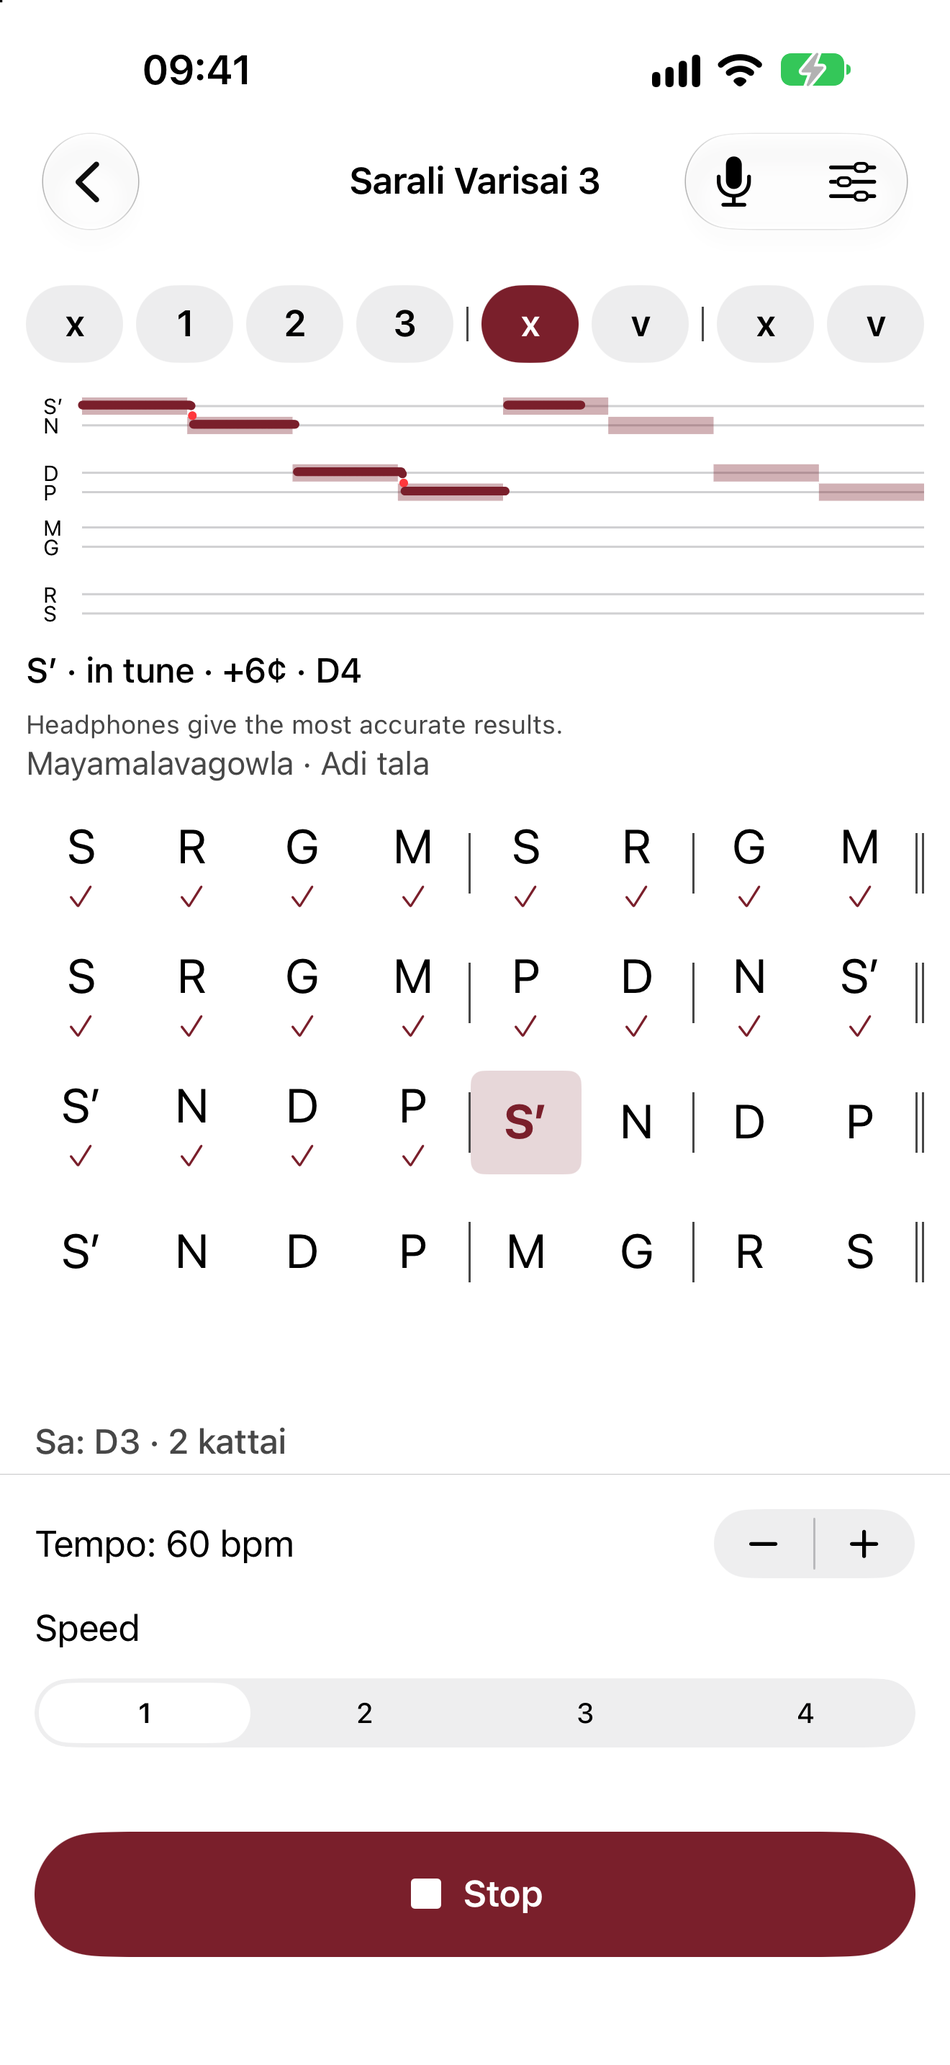
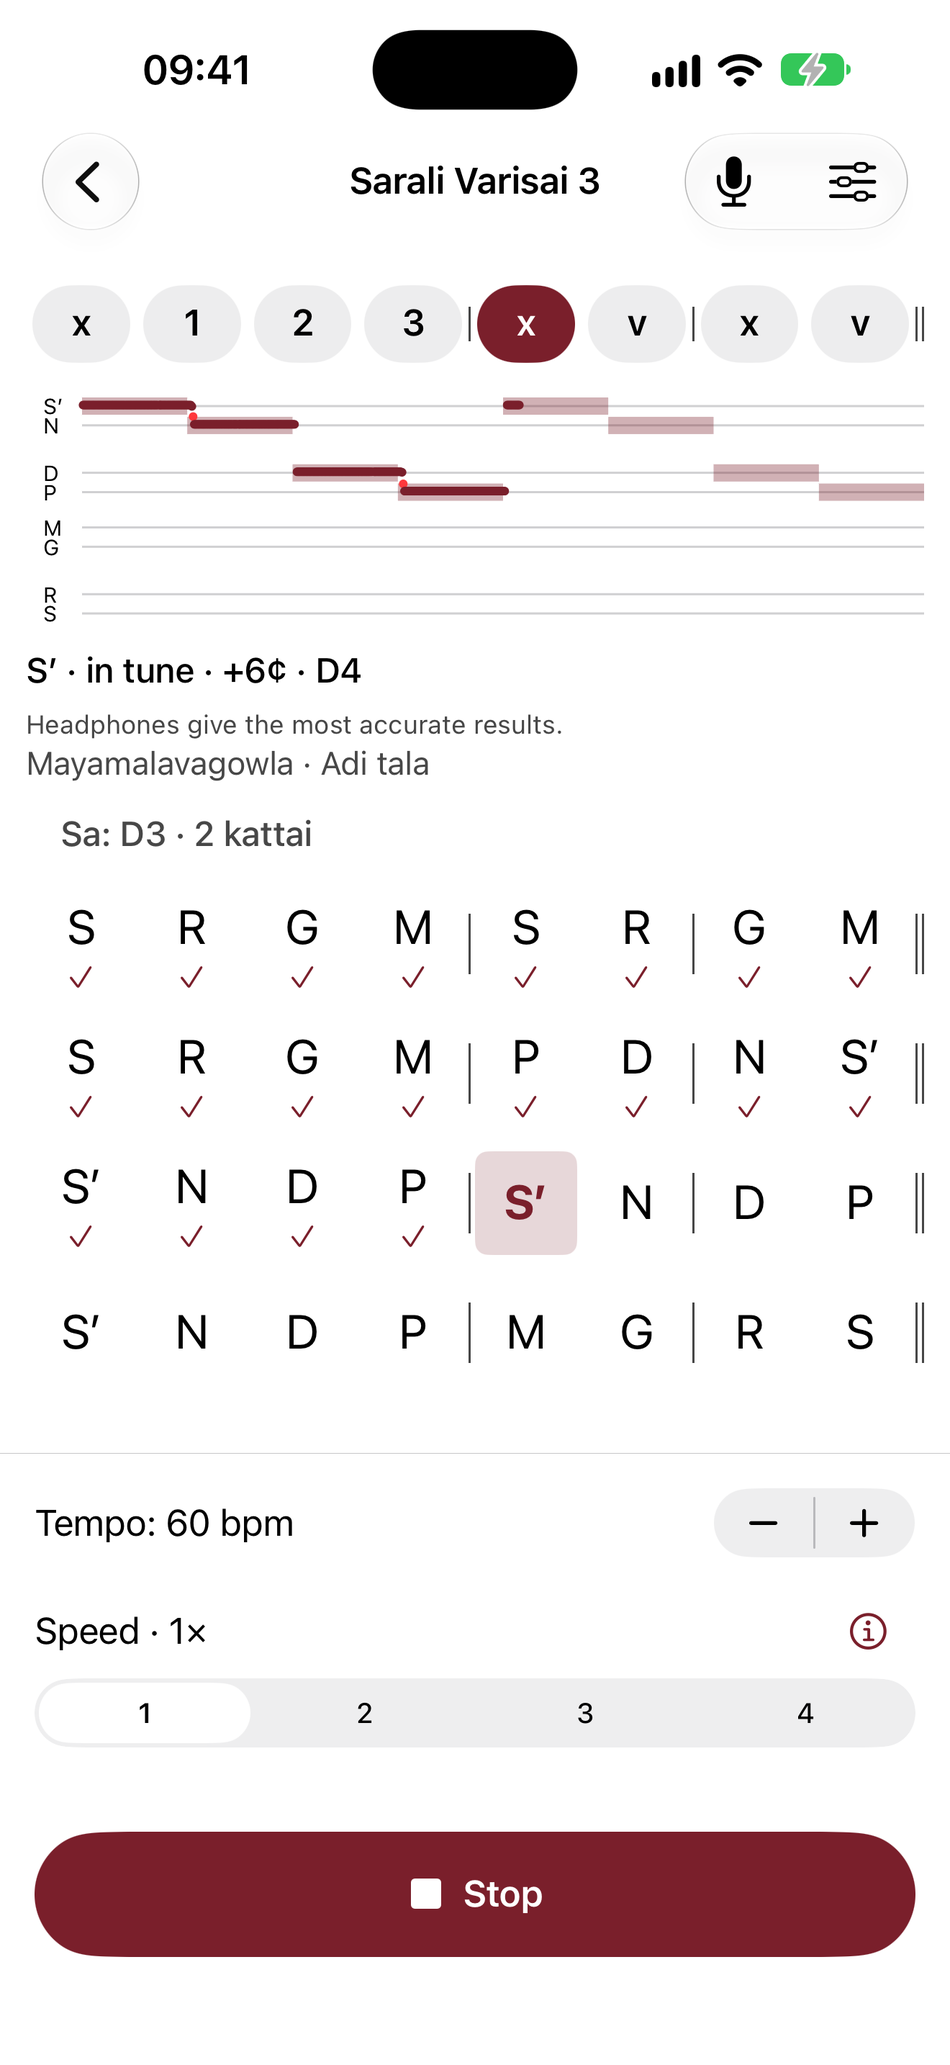
Navigation menu, docs and site (N4); iPhone hides the tab bar on full screens
The guide's Getting started page explains finding your way (Android menu,
iPhone tabs, iPad sidebar) and Home with the set pages; Shruti practice,
Find my Sa, Recordings, set runs and choosing Sa say where each is on every
device; accessibility describes the menu. New guide screenshots (Home, a set
page, Shruti practice, Find my Sa) and store screenshots. README and the
landing-page plan updated. On iPhone the player, a run, the recorder and a
recording hide the tab bar, as Android shows no menu there.

diff --git a/site/pages/guide/index.html b/site/pages/guide/index.html
@@ -6,27 +6,45 @@ description: Set your Sa, warm up with the tanpura, and play your first varisai 
 <p class="intro">Purandara plays the graded Carnatic lessons in tala at your Sa, and listens while you sing. This guide walks through everything it does; to find a word or a setting, use <em>Search the guide</em> at the top of the page list.</p>
 
 <figure>
-  <img src="{{root}}images/app-landing.jpg" width="600" height="1304" alt="The home screen: a Start here card, the Your Sa (Shruthi) card with Play tanpura, Practise Sa and Find my Sa, and the plain scale set.">
-  <figcaption>The home screen the first time you open Purandara.</figcaption>
+  <img src="{{root}}images/app-landing.jpg" width="600" height="1304" alt="Home on iPhone: a Start here card pointing to the plain scale, the Your Sa (Shruthi) card with Play tanpura, the Varisais list of sets, and the Practise, Sa and Recordings tabs at the bottom.">
+  <figcaption>Home the first time you open Purandara.</figcaption>
 </figure>
 
 <h2>Your first practice</h2>
 <ol>
-  <li><strong>Set your Sa.</strong> On the home screen, the <em>Your Sa (Shruthi)</em> card shows the current Sa, such as “C3 · 1 kattai”. Tap it to choose another. If you don’t know your Sa, use <a href="find-my-sa.html">Find my Sa</a>.</li>
-  <li><strong>Warm up.</strong> Tap <em>Play tanpura</em> and hum Sa until it feels settled, or open <a href="shruti-practice.html">Practise Sa</a> to see your pitch as you sing.</li>
+  <li><strong>Set your Sa.</strong> On Home, <em>Your Sa (Shruthi)</em> shows the current Sa, such as “C3 · 1 kattai”. Tap it to choose another. If you don’t know your Sa, use <a href="find-my-sa.html">Find my Sa</a>.</li>
+  <li><strong>Warm up.</strong> Tap <em>Play tanpura</em> and hum Sa until it feels settled, or open <a href="shruti-practice.html">Shruti practice</a> to see your pitch as you sing.</li>
   <li><strong>Play an exercise.</strong> Tap <em>Start here</em> to open the plain scale, then tap <em>Play</em>. Listen to one cycle before you sing.</li>
   <li><strong>Sing along.</strong> Tap the microphone button at the top of the player to have your notes marked. See <a href="sing-along.html">Sing along</a>.</li>
 </ol>
 
-<h2>The home screen</h2>
+<h2 id="finding-your-way">Finding your way</h2>
+<p>The app has a few main places: Home, a page for each set, Shruti practice, Find my Sa, Recordings and About. How you move between them depends on the device.</p>
+<dl>
+  <dt>Android</dt>
+  <dd>Tap the menu button (three lines) at the top left, or swipe in from the left edge. The menu lists Home, the sets under <em>Varisais</em> and <em>Alankaram &amp; songs</em> (tap a heading to fold it away), then <em>Sa &amp; voice</em> (Shruti practice, Find my Sa, Recordings) and About. On a tablet held sideways the menu stays open beside the page. <em>Back</em> from any of these returns to Home.</dd>
+  <dt>iPhone</dt>
+  <dd>Three tabs at the bottom. <em>Practise</em> is Home and the sets; <em>Sa</em> holds your Sa, the tanpura, Shruti practice and Find my Sa; <em>Recordings</em> is your recordings. About is the <em>i</em> button at the top of Home.</dd>
+  <dt>iPad</dt>
+  <dd>A sidebar on the left lists the same places as the Android menu; the chosen one fills the rest of the screen. In split screen, the iPad uses the iPhone’s tabs.</dd>
+</dl>
+<p>An exercise, a practice run, the recorder and a recording open on top of these, with a back arrow.</p>
+
+<h2 id="the-home-screen">Home and the set pages</h2>
 <dl>
   <dt>Start here, then Continue</dt>
   <dd>Before you have practised anything, this card points to the plain scale. Afterwards it shows the exercise you practised last, when, and your best sing-along result, with the next exercise in teaching order below it.</dd>
   <dt>Your Sa (Shruthi)</dt>
-  <dd>Your Sa, a tanpura to tune to, and the way into Shruti practice, Find my Sa and <a href="recordings.html">Recordings</a> (record yourself and see the swaras you sang).</dd>
+  <dd>Your Sa and a tanpura to tune to.</dd>
   <dt>The sets</dt>
-  <dd>Every exercise, grouped by set in teaching order. Each set says what it trains, and once you have practised some, how many. Each exercise shows a small line of its melodic shape, a tick once practised, and your best sing-along result.</dd>
+  <dd>Every set in teaching order, under <em>Varisais</em> and <em>Alankaram &amp; songs</em>, with how many exercises it has or, once you have started, how many you have practised. Tap a set to open its page.</dd>
+  <dt>A set’s page</dt>
+  <dd>What the set trains, <a href="varisai-player.html#set-run">Practise the whole set</a> for the varisai sets, then every exercise with a small line of its melodic shape, a tick once practised, and your best sing-along result.</dd>
 </dl>
+<figure>
+  <img src="{{root}}images/app-set.jpg" width="600" height="1304" loading="lazy" alt="The Sarali Varisai page on iPhone: what the set trains, a Practise Sarali Varisai row for all 16 varisais one after another, then Sarali Varisai 1 to 8 with the melodic shape of each.">
+  <figcaption>A set’s page: the run through the whole set, then each exercise.</figcaption>
+</figure>
 
 <div class="note"><p>An exercise counts as practised once you have heard one whole pass of it to the end. Opening it, or stopping during the count-in, doesn’t count.</p></div>
 

diff --git a/site/pages/guide/varisai-player.html b/site/pages/guide/varisai-player.html
@@ -3,7 +3,7 @@ title: Play a varisai
 description: Play any varisai on harmonium and tanpura in Adi tala, follow the notation and tala, and change tempo and speed.
 -->
 <h1>Play a varisai</h1>
-<p class="intro">Open any exercise from the home screen to play it on the harmonium, over the tanpura, in Adi tala.</p>
+<p class="intro">Open any exercise from its set’s page (or <em>Continue</em> on Home) to play it on the harmonium, over the tanpura, in its tala.</p>
 
 <figure>
   <img src="{{root}}images/app-play.jpg" width="600" height="1304" alt="Dhattu Varisai 1 playing: the tala strip with the current beat lit, the notation with the current swara highlighted, and tempo and speed controls.">
@@ -42,11 +42,11 @@ description: Play any varisai on harmonium and tanpura in Adi tala, follow the n
 <p>Fourth speed is an optional challenge, not a requirement for every exercise. For the plain scale at 30 beats a minute, it is four swaras a second, as fast as third speed at 60. For practice targets by exercise set, how tempo and speed combine, and a gradual way to build up, see <a href="{{root}}learn/speeds.html">The speeds</a> in Learn.</p>
 
 <h2 id="set-run">Practising a whole set</h2>
-<p>Sarali Varisai, Madhya Sthayi, Janta, Vakra Janta and Dhattu can be practised as one run: varisai after varisai, without opening each one. On the home screen, tap <em>Practise Sarali Varisai</em> (or the matching row) under the set.</p>
+<p>Sarali Varisai, Madhya Sthayi, Janta, Vakra Janta and Dhattu can be practised as one run: varisai after varisai, without opening each one. Open the set’s page (tap the set on Home, or choose it from the menu) and tap <em>Practise Sarali Varisai</em> (or the matching row) at the top.</p>
 <p>The plan lists every varisai in the set. Each has its own <em>Speed</em> (1–4) and <em>Sing</em> count (1–7). Speed 3 means the varisai is sung at first kala, then second, then third; <em>Sing</em> is how many times at each speed, so Speed 3 with Sing 2 is 1, 1, 2, 2, 3, 3. <em>Set every varisai to speed</em> and <em>Sing every varisai</em> change the whole list at once, and you can then change one varisai on its own.</p>
 <p>Start opens the first varisai in the normal player at first kala. The plan’s speed and repeat settings stay in charge: each speed starts with the player’s count-in and room check, its passes repeat with the tanpura and tala running on, and when they are done the app moves to the next speed or varisai. The player’s tempo, settings, microphone, note marks and pass summaries are all there; the speed picker is hidden because the plan sets it.</p>
 <p>While it plays, a banner above the notation says which varisai, speed and pass you are on. <em>Tempo</em> can be changed in the player; it restarts the current speed at the new tempo. <em>Skip</em> in the banner moves on to the next varisai, and <em>Stop</em> or the back arrow returns to the plan and keeps your place. The best score for each varisai is saved as usual.</p>
-<p>The app remembers each set’s speeds, repeat counts and where you stopped. The home row then says <em>Continue Sarali Varisai</em> and starts at that varisai. When the set finishes, the app says so: practise it again or go back home.</p>
+<p>The app remembers each set’s speeds, repeat counts and where you stopped. The row on the set’s page then says <em>Continue Sarali Varisai</em> and starts at that varisai. When the set finishes, the app says so: practise it again or go back home.</p>
 <div class="note"><p>Each speed starts fresh with the count-in and the room listening; the tanpura and tala carry through the repeats within that speed. A run is not one unbroken stream across speeds. With <a href="sing-along.html">Sing along</a> on, the player marks the notes and shows the pass summaries exactly as when practising one exercise.</p></div>
 
 <h2>Controls</h2>

diff --git a/site/pages/guide/accessibility.html b/site/pages/guide/accessibility.html
@@ -7,6 +7,7 @@ description: Using Purandara with TalkBack, VoiceOver and large text.
 
 <h2>Screen readers</h2>
 <ul>
+  <li><strong>Finding your way:</strong> on Android the menu button is read as “Open menu”; in the menu, the app name and the group names are headings, the current place is read as selected, and the set groups say whether they are expanded or collapsed. On iPad the sidebar’s group names are headings too, and on iPhone each tab is labelled.</li>
   <li><strong>Notation:</strong> each avarta (tala cycle) is read as one sentence, for example “Avarta 1: S R G M, P hold, S R”, where “hold” is a comma and the commas fall at the angas. At a faster speed one sentence covers the whole cycle./li>
   <li><strong>The tala strip:</strong> read as the pattern, “Adi tala: clap 1 2 3, clap wave, clap wave”; at a faster speed it adds the swaras to a beat (“2 swaras to a beat”).</li>
   <li><strong>Sing-along:</strong> the pitch lane is read as your current reading, such as “P, in tune, plus 3 cents, G3”, and marks are read with their notes. The summary after each pass is announced once, never while the music plays.</li>
@@ -17,7 +18,7 @@ description: Using Purandara with TalkBack, VoiceOver and large text.
 </ul>
 
 <h2>Large text</h2>
-<p>All text follows the system text size. At the largest sizes, drawings such as the pitch lane and the melodic shapes give their space to text, and nothing is cut off.</p>
+<p>All text follows the system text size. At the largest sizes, drawings such as the pitch lane and the melodic shapes, and the icons in the iPad sidebar, give their space to text, and nothing is cut off.</p>
 
 <h2>Reduced motion</h2>
 <p>Purandara honours the system’s reduce-motion setting.</p>

diff --git a/site/pages/guide/settings.html b/site/pages/guide/settings.html
@@ -16,7 +16,7 @@ description: Every practice setting in Purandara: Sa and fine tune, tempo and sp
 </table>
 
 <h2 id="sa">Sa and fine tune</h2>
-<p><em>Sa</em> is the home note: the harmonium, the tanpura and the marking of your notes all use it. Purandara offers <strong>G2 to C4</strong>; the default is <strong>C3</strong> (1 kattai). The list is grouped by the voices that usually sing there, from lower voices to higher voices, and each choice shows its keyboard note and kattai, such as “D3 · 2 kattai”. You can also choose Sa from the home screen. More in <a href="choose-your-sa.html">Choose your Sa</a>.</p>
+<p><em>Sa</em> is the home note: the harmonium, the tanpura and the marking of your notes all use it. Purandara offers <strong>G2 to C4</strong>; the default is <strong>C3</strong> (1 kattai). The list is grouped by the voices that usually sing there, from lower voices to higher voices, and each choice shows its keyboard note and kattai, such as “D3 · 2 kattai”. You can also choose Sa from Home. More in <a href="choose-your-sa.html">Choose your Sa</a>.</p>
 <p><em>Fine tune</em> moves Sa by up to <strong>50 cents</strong> above or below the keyboard note, in one-cent steps; <strong>exact</strong> (0) is the default. A fine-tuned Sa is shown after the label, such as “C3 · 1 kattai +12¢”. It applies to the harmonium, the tanpura and the marking of your notes.</p>
 <p>If a piece needs notes above the harmonium samples at the chosen Sa, the player says so and offers the nearest Sa that fits. You cannot start the piece until you choose a playable Sa.</p>
 <p>On Android, Fine tune is directly below Sa; on iPhone and iPad it is at the top of the Sa list.</p>

diff --git a/site/pages/guide/choose-your-sa.html b/site/pages/guide/choose-your-sa.html
@@ -6,7 +6,7 @@ description: Pick your Sa (shruthi) by kattai, see which voices usually use it, 
 <p class="intro">Your Sa, or shruthi, is the home note everything else is sung against. Purandara uses it for the harmonium, the tanpura and the marking of your notes.</p>
 
 <h2>Pick it from the list</h2>
-<p>Tap the Sa on the home screen, or <em>Sa</em> in the player’s practice settings. Each choice shows its keyboard note and kattai, for example “D3 · 2 kattai”. The list is grouped by the voices that usually sing there:</p>
+<p>Tap the Sa on Home (or in the <em>Sa</em> tab on iPhone), or <em>Sa</em> in the player’s practice settings. Each choice shows its keyboard note and kattai, for example “D3 · 2 kattai”. The list is grouped by the voices that usually sing there:</p>
 <table>
   <thead><tr><th scope="col">Group</th><th scope="col">Sa</th></tr></thead>
   <tbody>
@@ -27,4 +27,4 @@ description: Pick your Sa (shruthi) by kattai, see which voices usually use it, 
 <p>The fine-tune applies everywhere: the harmonium, the tanpura and the marking of your notes.</p>
 
 <h2>Check it with the tanpura</h2>
-<p>On the home screen, tap <em>Play tanpura</em>. The tanpura plays pa SA SA sa at your Sa until you tap <em>Stop tanpura</em> or open an exercise. If singing Sa over it feels strained, try a lower Sa; if it feels weak or breathy, try a higher one.</p>
+<p>On Home (or in the <em>Sa</em> tab on iPhone), tap <em>Play tanpura</em>. The tanpura plays pa SA SA sa at your Sa until you tap <em>Stop tanpura</em> or open an exercise. If singing Sa over it feels strained, try a lower Sa; if it feels weak or breathy, try a higher one.</p>

diff --git a/site/pages/index.html b/site/pages/index.html
@@ -80,10 +80,10 @@ description: A free app for Android, iPhone and iPad. Play the graded Carnatic l
     </article>
 
     <article class="feature">
-      <img src="{{root}}images/app-landing.jpg" width="600" height="1304" loading="lazy" alt="The app's home screen: a Start here card pointing to the plain scale, the Your Sa card with Play tanpura, Practise Sa and Find my Sa, and the list of sets.">
+      <img src="{{root}}images/app-landing.jpg" width="600" height="1304" loading="lazy" alt="The app's Home: a Start here card pointing to the plain scale, the Your Sa card with Play tanpura, and the list of sets.">
       <div class="feature-text">
         <h3>Pick up where you left off</h3>
-        <p>The home screen remembers the last exercise you practised and offers the next one in the teaching order. Each set says what it trains, and each exercise shows its melodic shape, a tick once you have practised it, and your best sing-along result.</p>
+        <p>Home remembers the last exercise you practised and offers the next one in the teaching order. Each set has its own page: what it trains, then each exercise with its melodic shape, a tick once you have practised it, and your best sing-along result.</p>
         <p><a href="{{root}}guide/index.html">Get started</a></p>
       </div>
     </article>

diff --git a/site/pages/guide/sing-along.html b/site/pages/guide/sing-along.html
@@ -36,7 +36,7 @@ description: How Purandara listens while you sing a varisai, and what each mark 
 <p>Above the notation, the expected notes of the current cycle are drawn as a staircase, with your voice traced over them, and lines for each swara. Below it, a reading names what you are singing, for example “P · in tune · +3¢ · G3”: the swara, how close it is, how many cents off, and the keyboard note. Screen readers hear the reading.</p>
 
 <h2>After each pass</h2>
-<p>A summary such as “Pass 1: 14 of 16 notes in tune or close”, and the notes that went wrong more than once, such as “Needs attention: R₁ high (2 of 2)”. Your best result for each exercise shows on the home screen; a pass only counts towards it if at least half its notes were heard.</p>
+<p>A summary such as “Pass 1: 14 of 16 notes in tune or close”, and the notes that went wrong more than once, such as “Needs attention: R₁ high (2 of 2)”. Your best result for each exercise shows on its set’s page; a pass only counts towards it if at least half its notes were heard.</p>
 
 <h2>Strictness</h2>
 <p>How close counts as in tune is a <a href="settings.html#strictness">practice setting</a>: Gentle, Steady or Precise. Start gentle while your voice settles, and tighten it as you improve.</p>

diff --git a/site/pages/guide/shruti-practice.html b/site/pages/guide/shruti-practice.html
@@ -11,7 +11,7 @@ description: Sing over the tanpura, watch your pitch against the swara lines, an
 </figure>
 
 <h2>Open it</h2>
-<p>On the home screen, in the <em>Your Sa (Shruthi)</em> card, tap <em>Practise Sa</em>. The tanpura starts at your Sa. For the first two seconds stay quiet while the app listens to the room, then sing.</p>
+<p>On iPhone, open the <em>Sa</em> tab and tap <em>Shruti practice</em>; on Android and iPad, choose <em>Shruti practice</em> in the menu. The tanpura starts at your Sa. For the first two seconds stay quiet while the app listens to the room, then sing.</p>
 
 <h2>Your pitch</h2>
 <p>The last ten seconds of your voice are drawn against lines for each swara, from lower Pa to upper Sa, with Sa marked. The reading names what you are singing, for example “S · in tune · +3¢ · C3”. A dot means the lower octave and ′ the upper.</p>

diff --git a/site/pages/guide/recordings.html b/site/pages/guide/recordings.html
@@ -12,7 +12,7 @@ description: Record yourself singing and see the swaras the app heard, with your
 
 <h2>Make a recording</h2>
 <ol>
-  <li>On the home screen, in the <em>Your Sa (Shruthi)</em> card, tap <em>Recordings</em>, then <em>New recording</em>.</li>
+  <li>Open <em>Recordings</em>: the <em>Recordings</em> tab on iPhone, or <em>Recordings</em> in the menu on Android and iPad. Then tap <em>New recording</em>.</li>
   <li>The screen shows the Sa the swaras will be read against: your current Sa. Set your Sa first if it is wrong, or change it afterwards.</li>
   <li>Tap <em>Start recording</em>, sing, then tap <em>Stop recording</em>. A recording can be up to 10 minutes long.</li>
   <li>The app finds the swaras (a few seconds) and opens the recording.</li>

diff --git a/site/pages/learn/varisais.html b/site/pages/learn/varisais.html
@@ -45,7 +45,7 @@ description: What each varisai set trains, how the Sarali figures are built, the
 
 <h2 id="practise-this">Practise this in Purandara</h2>
 <ul>
-  <li><a href="{{root}}guide/index.html#the-home-screen">The home screen</a>: every set, in this order, with what each trains and each exercise’s melodic shape.</li>
+  <li><a href="{{root}}guide/index.html#the-home-screen">Home and the set pages</a>: every set, in this order, with what each trains and each exercise’s melodic shape.</li>
   <li><a href="{{root}}guide/varisai-player.html">Play a varisai</a>: follow the notation and the tala at any speed.</li>
   <li><a href="{{root}}guide/sing-along.html">Sing along</a>: see whether the pairs are even and the leaps land.</li>
 </ul>

diff --git a/site/pages/guide/find-my-sa.html b/site/pages/guide/find-my-sa.html
@@ -12,7 +12,7 @@ description: Sing your lowest and highest comfortable notes and Purandara sugges
 
 <h2>How it works</h2>
 <ol>
-  <li>On the home screen, tap <em>Find my Sa</em>.</li>
+  <li>Open <em>Find my Sa</em>: in the <em>Sa</em> tab on iPhone, or in the menu on Android and iPad.</li>
   <li>Sing your <strong>lowest comfortable note</strong> and hold it for a couple of seconds. Comfortable means easy and clear, not the lowest growl you can reach.</li>
   <li>Then sing your <strong>highest comfortable note</strong> and hold it. It needs to be clearly higher, at least four notes above the first.</li>
   <li>Read the suggestion, then tap <em>Use this</em> to set it as your Sa, or <em>Try again</em>.</li>

diff --git a/iosApp/Purandara/Views/NavigationViews.swift b/iosApp/Purandara/Views/NavigationViews.swift
@@ -236,7 +236,17 @@ private struct AppDestination: View {
     let id: String
     @Binding var path: [String]
 
+    /// The player, a run, the recorder and a recording use the whole screen:
+    /// no tab bar (as Android shows no menu on them).
+    private var fullScreen: Bool {
+        id == "run" || id == "record" || id.hasPrefix("recording:") || VarisaiCatalog.shared.byId(id: id) != nil
+    }
+
     var body: some View {
+        screen.toolbar(fullScreen ? .hidden : .automatic, for: .tabBar)
+    }
+
+    @ViewBuilder private var screen: some View {
         if id == "shruti" {
             ShrutiView().outputChangeTestControl()
         } else if id == "find-sa" {
